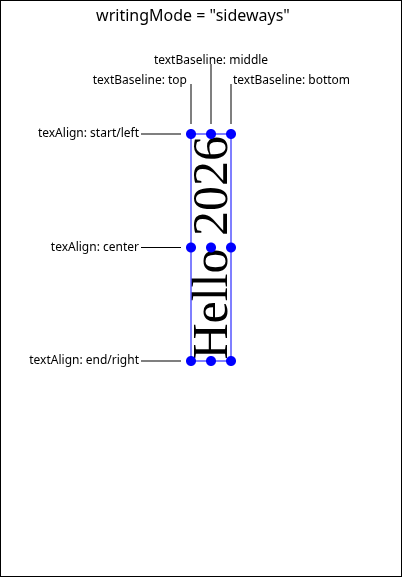
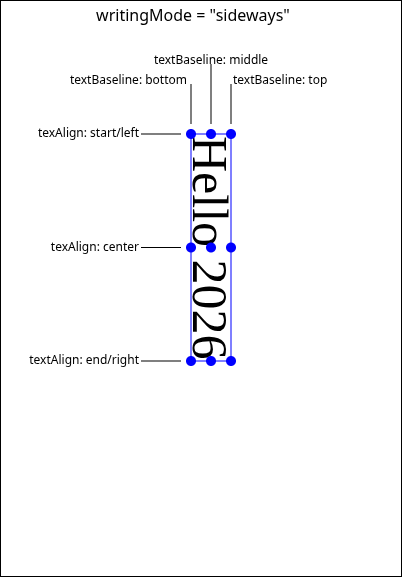
Update sideways behavior

Changed region(s): [[0.4776, 0.2184, 0.5672, 0.6239], [0.1791, 0.1248, 0.4776, 0.156], [0.7761, 0.1248, 0.8657, 0.156]]

diff --git a/canvas-writing-mode/README.md b/canvas-writing-mode/README.md
@@ -48,17 +48,17 @@ when a text string is shaped. The possible values will be `horizontal` (the defa
 possible values will be `mixed` (the default), `upright` or `sideways`.
 
 A text string shaped with these attributes will match the result of a single line
-styled with the corresponding CSS properties.
+styled with the corresponding CSS properties, with `vertical` mapping to `vertical-lr` and `sideways` mapping to `sideways-rl`.
 
 The `horizontal` `writingMode` value will render the same as current canvas text.
 
-A `writingMode` of `vertical` or `sideways` will produce a string that will render
+A `writingMode` of `vertical` or `sideways` will produce a string that renders
 vertically unless explicitly rotated. That is, the bound will likely be higher than it
 is wide. The existing `textAlign` attribute will apply to the _vertical_ position of
-the text, chosen to be that way so that the existing `start` and `end` values
+the text, so that the existing `start` and `end` values
 for `textAlign` still make sense. The `left` and `right` values will then logically map to top and bottom. The `textBaseline` will control _horizontal_ position, but this is more challenging because most writing systems still use vertically oriented characters,
 so their baselines are vertical offsets. We will allow only `top`, `bottom` and
-`middle`, matching the existing `textBaseline` behavior. The values of `top` and `bottom` will map to right and left for vertical and left and right for sideways. See the [CSS Abstract-to-Physical Mappings](https://drafts.csswg.org/css-writing-modes/#logical-to-physical), with `textAlign` values corresponding to `line-left` and `line-right` and `textBaseline` values corresponding to `over` and `under`, with the canvas `writingMode = "sideways"` mapping to CSS `sideway-lr`.
+`middle`, matching the existing `textBaseline` behavior. The values of `top` and `bottom` will map to right and left for vertical and sideways text. See the [CSS Abstract-to-Physical Mappings](https://drafts.csswg.org/css-writing-modes/#logical-to-physical), with `textAlign` values corresponding to `line-left` and `line-right` and `textBaseline` values corresponding to `over` and `under`, with the canvas `writingMode = "sideways"` mapping to CSS `sideways-rl`.
 
 ### Example
 
